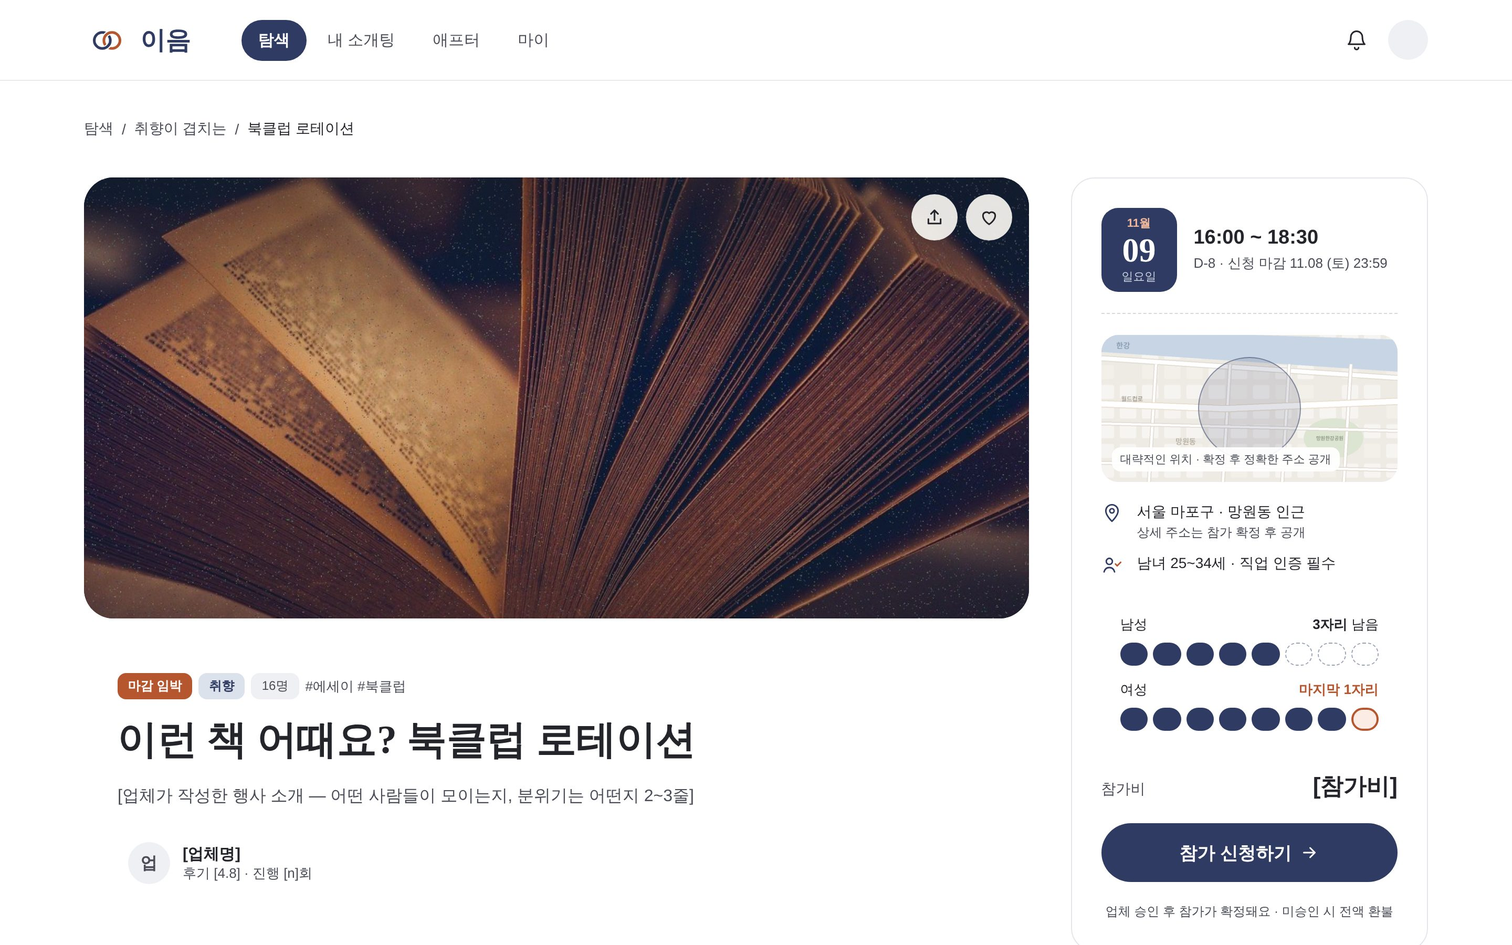
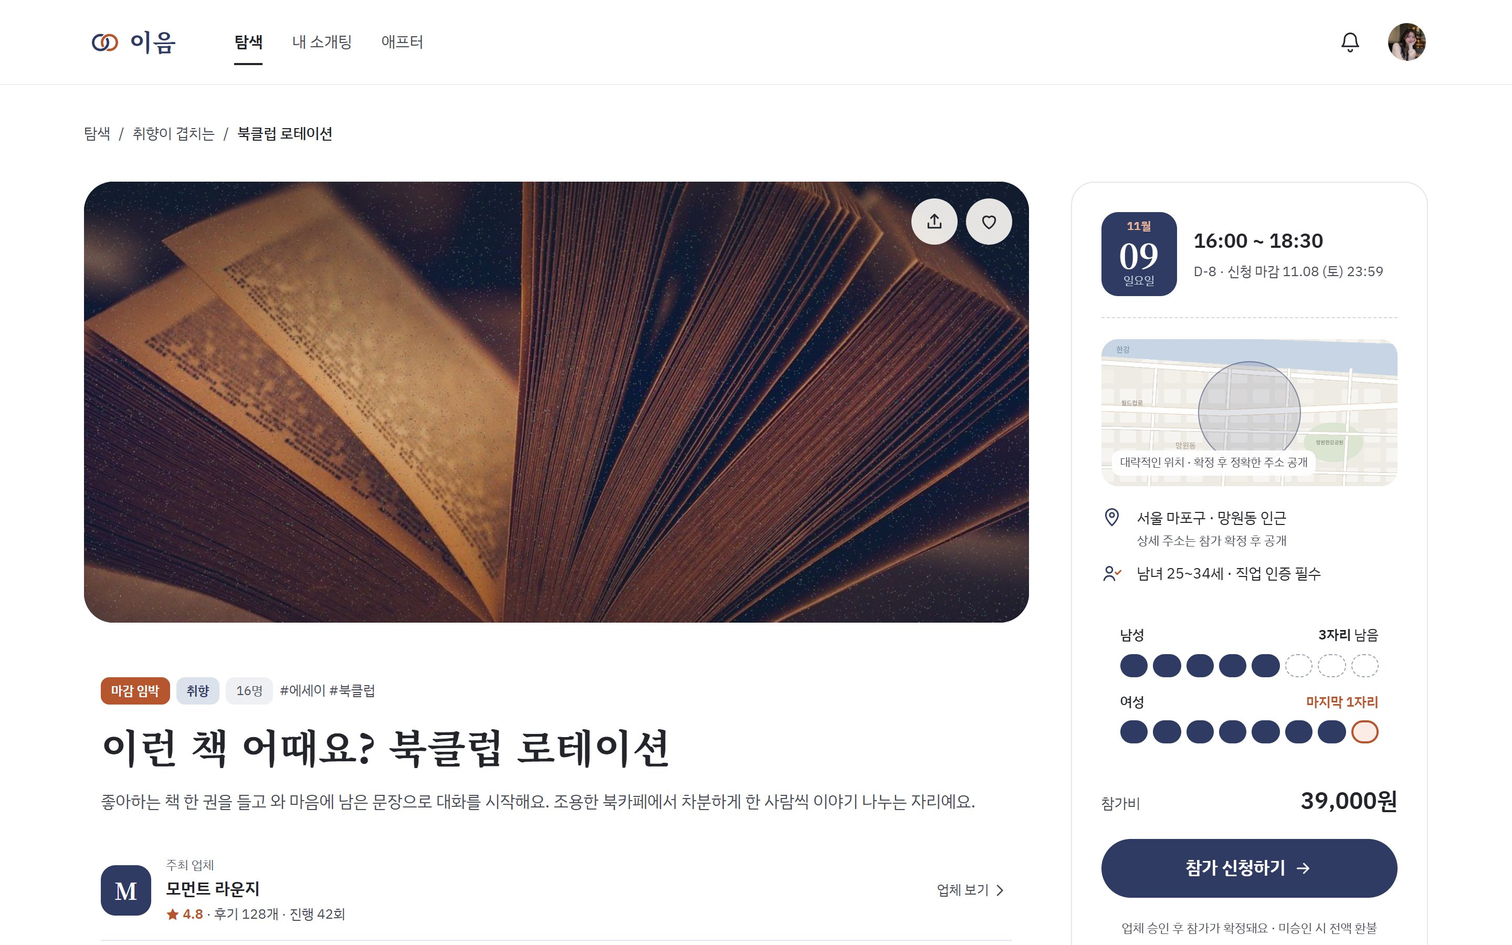
이음 기획서 갱신 · 캡처 교체 · 모바일 채팅 입력줄 수정
- 기획서: 바뀐 서비스 내용(마이 · 크레딧 열람 · 필터 · 라운드 자동 전환 등), 기간 · 도구 반영
- 주요 화면에 '웹으로 옮기며 새로 만든 화면' 8장 추가, 기존 모바일 12장 · PC 5장을 현재 화면으로 다시 캡처
- 페르소나 사진을 서비스의 내 프로필 사진으로 교체
- 모바일 채팅: 입력칸 최소 폭 때문에 실기기에서 화면이 넘치고 축소되던 문제 수정
- 모바일 애프터 제목에 AFTER 소제목 추가

diff --git a/projects/ieum/index.html b/projects/ieum/index.html
@@ -30,13 +30,14 @@
     <div>
       <span class="eyebrow">UX/UI Case Study · 오프라인 로테이션 소개팅</span>
       <h1 class="hero-title">한 번의 대화가<br><em>관계로 이어지도록</em></h1>
-      <p class="sub">인증된 사람들이 한자리에서 차례로 대화하고, 서로 고른 사람과만 이어지는 오프라인 로테이션 소개팅 웹 서비스. 참가자 화면을 기획부터 디자인까지 설계했습니다.</p>
+      <p class="sub">인증된 사람들이 한자리에서 차례로 대화하고, 서로 고른 사람과만 이어지는 오프라인 로테이션 소개팅 웹 서비스. 참가자 화면을 기획 · 디자인부터 실제로 동작하는 반응형 웹까지 만들었습니다.</p>
       <div class="cta-row"><a class="cta" href="../../ieum/" target="_blank" rel="noopener">서비스 구경하기 <span aria-hidden="true">↗</span></a></div>
       <dl class="meta">
-        <div><dt>역할</dt><dd>서비스 기획 · UX/UI 디자인 (1인)</dd></div>
+        <div><dt>역할</dt><dd>기획 · UX/UI 디자인 · 퍼블리싱 (1인)</dd></div>
         <div><dt>범위</dt><dd>참가자 웹 · 반응형(모바일 · PC)</dd></div>
-        <div><dt>산출물</dt><dd>와이어프레임 · 브랜드 · 디자인 60화면</dd></div>
-        <div><dt>기간 · 도구</dt><dd><span class="ph">[기간]</span> · <span class="ph">[사용 도구]</span></dd></div>
+        <div><dt>산출물</dt><dd>브랜드 · 디자인 60화면 · 반응형 웹</dd></div>
+        <div><dt>기간</dt><dd>2026.10 – 진행 중</dd></div>
+        <div><dt>도구</dt><dd>Claude · HTML · CSS · JS · AI 이미지 생성</dd></div>
       </dl>
     </div>
     <div class="phones">
@@ -82,10 +83,10 @@
 
   <div class="sol">
     <div><span class="k">신뢰 →</span><h3>인증된 사람만, 필요한 만큼만 공개</h3>
-      <p>가입 때 본인 인증과 직업 인증을 받고, 프로필은 관계가 가까워질수록 한 단계씩 열리도록 설계했습니다. 회사명은 끝까지 공개하지 않고, 같은 회사 사람과 같은 회차에 배정되지 않는 데에만 씁니다.</p>
+      <p>가입 때 본인 인증과 직업 인증을 받고, 프로필은 관계가 가까워질수록 한 단계씩 열리도록 설계했습니다. 회사명은 끝까지 공개하지 않고, 같은 회사 사람과 같은 회차에 배정되지 않는 데에만 씁니다. 마이 페이지에서는 내 카드가 다른 참가자에게 어떻게 보이는지, 아직 가려진 정보까지 그대로 미리 볼 수 있습니다.</p>
       <div class="disclose">
         <div><b>참가 확정 후</b><span>사진, 성+○○, 성별, 나이대, 한마디</span></div>
-        <div><b>크레딧 열람</b><span>지역(구까지), 직업군, 취미 · 열람하면 상대에게 알림</span></div>
+        <div><b>크레딧 열람</b><span>1크레딧으로 한 명의 지역(구까지), 직업군, 취미 · 열람하면 상대에게 알림 · 서로의 열람 기록 확인</span></div>
         <div><b>매칭 후</b><span>실명, 인앱 대화</span></div>
         <div><b>공개 안 함</b><span>회사명, 상세 주소, 연락처</span></div>
       </div>
@@ -96,7 +97,7 @@
   <div class="sol">
     <div><span class="k">기억 →</span><h3>대화하는 동안 남기는 로테이션 메모</h3>
       <p>행사 당일 화면에서 지금 몇 번째 대화인지 보여주고, 대화한 사람마다 짧은 메모와 '다시 보고 싶어요' 하트를 남길 수 있게 했습니다. 이 메모와 하트는 애프터 선택 화면에 그대로 따라와서, 사진과 번호만으로 사람을 떠올리지 않아도 됩니다.</p>
-      <ul><li>메모는 나만 볼 수 있음</li><li>메모 남긴 사람 · 하트 누른 사람으로 애프터 후보 필터링</li></ul>
+      <ul><li>메모는 나만 볼 수 있음</li><li>다음 상대는 진행자가 라운드를 넘기면 자동으로 공개 · 참가자는 대화와 메모에만 집중</li><li>순서가 꼬였을 때를 위한 '번호로 바꾸기' 예비 장치</li><li>메모 남긴 사람 · 하트 누른 사람으로 애프터 후보 필터링</li></ul>
     </div>
     <div class="phone"><img src="../../img/ieum/D-S17-Mobile.jpg" alt="로테이션 메모 화면"></div>
   </div>
@@ -104,7 +105,7 @@
   <div class="sol">
     <div><span class="k">부담 →</span><h3>서로 골랐을 때만 연결되는 애프터</h3>
       <p>행사가 끝나면 24시간 동안 더 알아가고 싶은 사람을 고릅니다. 서로 선택한 경우에만 매칭되고, 이어지지 않은 선택은 상대에게 알려지지 않습니다. 매칭되면 실명이 공개되고 인앱 대화로 바로 이어집니다.</p>
-      <ul><li>선택 인원은 참석 인원의 15% (20명 참석 → 3명)</li><li>마감 전까지 선택 변경 가능</li><li>이어지지 않으면 비슷한 다음 소개팅을 추천</li></ul>
+      <ul><li>선택 인원은 참석 인원의 15% (20명 참석 → 3명)</li><li>마감 전까지 선택 변경 가능</li><li>매칭 대화방에서 상대 프로필 · 신고 · 차단 · 나가기</li><li>이어지지 않으면 비슷한 다음 소개팅을 추천</li></ul>
     </div>
     <div class="phone"><img src="../../img/ieum/D-S10-Mobile.jpg" alt="애프터 선택 화면"></div>
   </div>
@@ -115,11 +116,11 @@
     <p class="lead">참가자가 서비스를 처음 만나는 순간부터 매칭 상대와 대화를 시작하기까지의 핵심 경로입니다.</p></div>
   <div class="phase"><span>찾기 · 신청</span><span>참가</span><span class="t">애프터</span></div>
   <div class="flow">
-    <div class="step"><div class="phone"><img src="../../img/ieum/D-S01-Mobile.jpg" alt=""></div><p class="lbl">탐색<span>테마 · 마감 임박 · 달력</span></p></div>
+    <div class="step"><div class="phone"><img src="../../img/ieum/D-S01-Mobile.jpg" alt=""></div><p class="lbl">탐색<span>테마 · 마감 임박 · 필터 · 달력</span></p></div>
     <div class="step"><div class="phone"><img src="../../img/ieum/D-S04-Mobile.jpg" alt=""></div><p class="lbl">상세 · 신청<span>3단계 신청 · 결제</span></p></div>
     <div class="step"><div class="phone"><img src="../../img/ieum/D-S06-Mobile.jpg" alt=""></div><p class="lbl">업체 확인<span>1시간 안 승인 · 미승인 시 전액 환불</span></p></div>
-    <div class="step"><div class="phone"><img src="../../img/ieum/D-S08-Mobile.jpg" alt=""></div><p class="lbl">참가 확정<span>참가자 명단 · 상세 열람</span></p></div>
-    <div class="step"><div class="phone"><img src="../../img/ieum/D-S16-Mobile.jpg" alt=""></div><p class="lbl">행사 당일<span>QR 체크인 · 로테이션 메모</span></p></div>
+    <div class="step"><div class="phone"><img src="../../img/ieum/D-S08-Mobile.jpg" alt=""></div><p class="lbl">참가 확정<span>참가자 명단 · 크레딧 열람</span></p></div>
+    <div class="step"><div class="phone"><img src="../../img/ieum/D-S16-Mobile.jpg" alt=""></div><p class="lbl">행사 당일<span>QR 체크인 · 라운드 자동 전환 · 메모</span></p></div>
     <div class="step after"><div class="phone"><img src="../../img/ieum/D-S11-Mobile.jpg" alt=""></div><p class="lbl">애프터 · 매칭<span>서로 선택 시 대화 시작</span></p></div>
   </div>
 </div></section>
@@ -134,7 +135,8 @@
       <tr><td>취소 · 환불</td><td>전날까지 전액 · 당일 <span class="num">50</span>% · 노쇼 환불 없음</td><td>업체 미승인 · 행사 취소는 전액 환불<span class="why">취소 시점을 화면마다 같은 표로 안내</span></td></tr>
       <tr><td>노쇼</td><td><span class="num">1</span>회 경고, <span class="num">2</span>회째 <span class="num">7</span>일 신청 제한</td><td>제한 중에도 둘러보기와 관심 저장은 가능<span class="why">벌보다 다시 돌아올 길을 함께 보여줌</span></td></tr>
       <tr><td>대기 신청</td><td>내 성별이 마감되면 무료 대기 · 자리가 나면 순서대로 알림</td><td>알림 후 <span class="num">1</span>시간 안에 결제하면 확정<span class="why">자리가 비어도 다음 사람이 바로 채움</span></td></tr>
-      <tr><td>상세 열람</td><td>지역 · 직업군 · 취미는 크레딧으로 열람</td><td>열람하면 상대에게 알림<span class="why">일방적인 정보 탐색을 막는 장치</span></td></tr>
+      <tr><td>상세 열람</td><td><span class="num">1</span>크레딧으로 한 명의 지역 · 직업군 · 취미 열람</td><td>열람하면 상대에게 알림 · 마이에서 서로의 열람 기록 확인<span class="why">일방적인 정보 탐색을 막는 장치</span></td></tr>
+      <tr><td>로테이션</td><td>다음 상대는 진행자가 라운드를 넘길 때 공개</td><td>참가자가 직접 지정하지 않음 · 번호로 바꾸기는 예비<span class="why">대화 사이에 휴대폰을 만지지 않게</span></td></tr>
       <tr><td>애프터</td><td>참석 인원의 <span class="num">15</span>%까지 선택 · 종료 후 <span class="num">24</span>시간</td><td>서로 선택한 경우에만 매칭 · 실명 공개<span class="why">거절의 부담 없이 마음을 표현</span></td></tr>
     </tbody>
   </table></div>
@@ -142,14 +144,14 @@
 
 <section class="block" id="ia"><div class="wrap">
   <div class="sec-head"><span class="sec-num">06 · 정보 구조</span><div><h2>네 개의 탭, 하나의 여정</h2></div>
-    <p class="lead">하단 탭(모바일)과 상단 메뉴(PC)를 같은 구조로 맞췄습니다. 애프터는 시간이 걸린 관계의 순간이라 별도 탭으로 꺼냈습니다.</p></div>
+    <p class="lead">하단 탭(모바일)과 상단 메뉴(PC)를 같은 구조로 맞췄습니다. 애프터는 시간이 걸린 관계의 순간이라 별도 탭으로 꺼냈고, PC에서 마이는 메뉴 대신 헤더의 프로필 사진으로 들어갑니다.</p></div>
   <div class="ia">
-    <div class="ia-col"><h4>탐색</h4><ul><li>마감 임박 소개팅</li><li>테마 <small>결혼관 · 파티 · 업계 · 취향</small></li><li>새로 열린 테마</li><li>리스트 / 달력 보기</li><li>소개팅 상세 → 참가 신청 · 대기 신청</li></ul></div>
+    <div class="ia-col"><h4>탐색</h4><ul><li>마감 임박 소개팅</li><li>테마 <small>결혼관 · 파티 · 업계 · 취향</small></li><li>새로 열린 테마</li><li>리스트 / 달력 보기 <small>같은 화면에서 전환</small></li><li>필터 <small>날짜 · 지역 · 인원 · 테마 · 적용 태그 · 초기화</small></li><li>소개팅 상세 → 참가 신청 · 대기 신청</li></ul></div>
     <div class="ia-col"><h4>내 소개팅</h4><ul><li>예정 <small>접수중 · 확정 · 대기 · 미승인</small></li><li>지난 소개팅</li><li>리스트 / 달력 보기</li><li>참가자 명단 · 상세 열람</li><li>행사 당일 · 로테이션 메모</li><li>참가 취소</li></ul></div>
-    <div class="ia-col t"><h4>애프터</h4><ul><li>진행 중인 선택</li><li>애프터 선택 · 선택 완료</li><li>매칭 결과 <small>성공 · 이어지지 않음</small></li><li>매칭 대화방</li></ul></div>
-    <div class="ia-col"><h4>마이</h4><ul><li>프로필 · 인증 상태</li><li>이용 현황 · 노쇼 기록</li><li>크레딧 · 결제 · 환불 내역</li><li>차단 · 신고 내역</li></ul></div>
+    <div class="ia-col t"><h4>애프터</h4><ul><li>진행 중인 선택</li><li>애프터 선택 · 선택 완료</li><li>매칭 결과 <small>성공 · 이어지지 않음</small></li><li>매칭 대화방 <small>접속 표시 · 고정 메모</small></li><li>매칭 상대 프로필 · 신고 · 차단</li></ul></div>
+    <div class="ia-col"><h4>마이</h4><ul><li>다른 참가자에게 보이는 모습</li><li>프로필 정보 · 본인 인증</li><li>크레딧 충전 · 참가 기록 · 노쇼</li><li>관심 소개팅</li><li>열람 기록 <small>나를 열람 · 내가 열람</small></li><li>설정 <small>알림 · 결제 · 차단 · 신고</small></li></ul></div>
   </div>
-  <div class="ia-foot"><span class="chip">공통 · 알림</span><span class="chip">공통 · 로그인 / 회원가입 4단계</span><span class="chip">알림창 · 비로그인 · 인증 확인 중 · 노쇼 제한</span></div>
+  <div class="ia-foot"><span class="chip">공통 · 알림 팝업</span><span class="chip">공통 · 크레딧 충전</span><span class="chip">공통 · 로그인 / 회원가입 4단계</span><span class="chip">알림창 · 비로그인 · 인증 확인 중 · 노쇼 제한</span></div>
 </div></section>
 
 <section class="block" id="states"><div class="wrap">
@@ -175,10 +177,11 @@
         <div class="sw"><i class="sw-terra"></i><div><b>테라코타</b><span>#B5562F · 애프터 · 마감</span></div></div>
         <div class="sw"><i class="sw-indigo-tint"></i><div><b>인디고 틴트</b><span>#EEF1F6</span></div></div>
         <div class="sw"><i class="sw-terra-tint"></i><div><b>테라코타 틴트</b><span>#FBEDE6</span></div></div>
+        <div class="sw"><i class="sw-green"></i><div><b>그린</b><span>#2B8A52 · 인증 · 접속 중</span></div></div>
         <div class="sw"><i class="sw-text"></i><div><b>텍스트</b><span>#24252B · #4A4D57</span></div></div>
         <div class="sw"><i class="sw-surface"></i><div><b>서피스</b><span>#F4F5F7 · #E3E6EA</span></div></div>
       </div>
-      <p class="rule"><b class="strong">색 규칙.</b> 탐색 · 신청 · 일반 액션은 인디고, 애프터 · 매칭 · 마감 임박처럼 시간이 걸린 관계의 순간에만 테라코타를 씁니다. 테라코타는 면이 아니라 점, 링, 버튼 하나처럼 작게 씁니다.</p>
+      <p class="rule"><b class="strong">색 규칙.</b> 탐색 · 신청 · 일반 액션은 인디고, 애프터 · 매칭 · 마감 임박처럼 시간이 걸린 관계의 순간에만 테라코타를 씁니다. 테라코타는 면이 아니라 점, 링, 버튼 하나처럼 작게 씁니다. 본인 · 직업 인증과 접속 중 표시는 초록으로 따로 구분합니다.</p>
     </div>
     <div class="card">
       <h3>타이포그래피</h3>
@@ -191,7 +194,7 @@
       <h3>컴포넌트</h3>
       <div class="comp"><span class="btn p">참가 신청하기</span><span class="btn a">대화 시작하기</span><span class="btn g">상세 보기</span></div>
       <div class="ticket"><div class="l"><b>시티팝 로테이션</b>오늘 19:00 · 체크인 19:15까지</div><div class="r">MY NO.<strong>7</strong></div></div>
-      <p class="rule">알약형 버튼, 티켓처럼 점선으로 나뉜 행사 카드, 완전한 원형의 프로필이 반복되는 기본 단위입니다.</p>
+      <p class="rule">알약형 버튼, 티켓처럼 점선으로 나뉜 행사 카드, 완전한 원형의 프로필이 반복되는 기본 단위입니다. 목록은 테두리 없이 구분선으로만 나누고, 카드는 화면마다 핵심 요약 하나에만 써서 상자가 겹쳐 보이지 않게 했습니다.</p>
     </div>
     <div class="card">
       <h3>이미지 톤</h3>
@@ -203,7 +206,7 @@
 
 <section class="block" id="screens"><div class="wrap">
   <div class="sec-head"><span class="sec-num">09 · 주요 화면</span><div><h2>모바일 · PC 반응형 60화면</h2></div>
-    <p class="lead">같은 구조를 유지하되, PC에서는 넓은 화면을 살려 정보를 나란히 보여줍니다.</p></div>
+    <p class="lead">같은 구조를 유지하되, PC에서는 넓은 화면을 살려 정보를 나란히 보여줍니다. 열람 기록처럼 모바일에서는 화면을 넘어가는 상세도 PC에서는 목록 옆에 바로 띄웁니다.</p></div>
   <div class="gal-m">
     <figure><div class="phone"><img src="../../img/ieum/D-S04-Mobile.jpg" alt=""></div><figcaption><b>소개팅 상세</b>남녀 자리 현황을 좌석 점으로 시각화</figcaption></figure>
     <figure><div class="phone"><img src="../../img/ieum/D-S07-Mobile.jpg" alt=""></div><figcaption><b>내 소개팅</b>오늘의 행사를 티켓으로, 상태는 배지로</figcaption></figure>
@@ -216,6 +219,19 @@
     <figure><div class="browser"><div class="bar"><i></i><i></i><i></i></div><img src="../../img/ieum/D-S10-PC.jpg" alt=""></div><figcaption><b>애프터 선택 · PC</b>메모와 함께 후보를 카드로 비교</figcaption></figure>
     <figure><div class="browser"><div class="bar"><i></i><i></i><i></i></div><img src="../../img/ieum/D-S11-PC.jpg" alt=""></div><figcaption><b>매칭 결과 · PC</b>함께한 소개팅과 그날의 메모를 다시 보여줌</figcaption></figure>
   </div>
+  <div class="gal-sub"><h3>웹으로 옮기며 새로 만든 화면</h3><p>시안에 없던 흐름을 실제로 동작하는 화면으로 채웠습니다.</p></div>
+  <div class="gal-m">
+    <figure><div class="phone"><img src="../../img/ieum/W-Me-Mobile.jpg" alt="마이 화면"></div><figcaption><b>마이</b>내 카드가 어떻게 보이는지, 가려진 정보까지 미리 보기</figcaption></figure>
+    <figure><div class="phone"><img src="../../img/ieum/W-Filter-Mobile.jpg" alt="필터 화면"></div><figcaption><b>필터</b>날짜 · 지역 · 인원 · 테마를 고르면 목록 위 태그로</figcaption></figure>
+    <figure><div class="phone"><img src="../../img/ieum/W-Memo-Mobile.jpg" alt="라운드 자동 전환 화면"></div><figcaption><b>라운드 자동 전환</b>진행자가 넘기면 다음 상대가 공개되고 메모는 저장</figcaption></figure>
+    <figure><div class="phone"><img src="../../img/ieum/W-Views-Mobile.jpg" alt="열람 기록 화면"></div><figcaption><b>열람 기록</b>나를 열람한 사람과 내가 열람한 사람을 탭으로</figcaption></figure>
+  </div>
+  <div class="gal-p">
+    <figure><div class="browser"><div class="bar"><i></i><i></i><i></i></div><img src="../../img/ieum/W-Me-PC.jpg" alt="마이 · PC 화면"></div><figcaption><b>마이 · PC</b>카드는 핵심 요약 두 개, 나머지는 선으로 나눈 목록</figcaption></figure>
+    <figure><div class="browser"><div class="bar"><i></i><i></i><i></i></div><img src="../../img/ieum/W-Views-PC.jpg" alt="열람 기록 · PC 화면"></div><figcaption><b>열람 기록 · PC</b>목록 옆에 상세를 바로 띄우고, 그 자리에서 열람</figcaption></figure>
+    <figure><div class="browser"><div class="bar"><i></i><i></i><i></i></div><img src="../../img/ieum/W-Participants-PC.jpg" alt="크레딧 열람 · PC 화면"></div><figcaption><b>크레딧 열람 · PC</b>열람 전 사용 크레딧과 상대에게 가는 알림을 먼저 안내</figcaption></figure>
+    <figure><div class="browser"><div class="bar"><i></i><i></i><i></i></div><img src="../../img/ieum/W-Chat-PC.jpg" alt="매칭 대화 · PC 화면"></div><figcaption><b>매칭 대화 · PC</b>진행 중인 선택 배너, 접속 표시, 고정 메모</figcaption></figure>
+  </div>
 </div></section>
 
 <section class="block" id="retro"><div class="wrap">
@@ -224,12 +240,13 @@
     <div class="card"><h3>잘된 점</h3><ul>
       <li>정책을 먼저 정해, 60개 화면에서 취소 · 노쇼 · 대기 안내가 같은 말로 반복되도록 맞춤</li>
       <li>메모 → 애프터 선택 → 매칭 대화로 이어지는 핵심 경험을 하나의 데이터 흐름으로 설계</li>
-      <li>색 규칙(인디고 / 테라코타)으로 화면이 늘어나도 의미가 흐트러지지 않게 함</li>
+      <li>색 규칙(인디고 / 테라코타 / 인증 초록)으로 화면이 늘어나도 의미가 흐트러지지 않게 함</li>
+      <li>시안을 실제로 동작하는 웹으로 옮기며 비어 있던 흐름(다음 상대 공개, 필터, 크레딧 충전, 열람 기록)을 채움</li>
     </ul></div>
     <div class="card"><h3>다음 단계</h3><ul>
       <li>실제 참가 경험이 있는 사용자 인터뷰와 사용성 테스트로 가설 검증</li>
       <li>행사 중 메모 시점 검증 · 자리 이동 시간에 쓰도록 안내하는 방식 실험</li>
-      <li>성비 불균형 대응과 업체(주최자) 관리 화면 설계</li>
+      <li>성비 불균형 대응과 업체(주최자) 관리 화면 · 라운드 진행 화면 설계</li>
       <li>결혼중개업법 등 관련 법규 검토</li>
     </ul></div>
   </div>

diff --git a/css/ieum.css b/css/ieum.css
@@ -36,6 +36,7 @@
 .ieum .meta{margin-top:36px;display:grid;grid-template-columns:repeat(2,minmax(0,1fr));gap:18px 28px;padding-top:24px;border-top:1px solid var(--line)}
 .ieum .meta dt{font-size:12px;color:var(--faint);letter-spacing:.06em}
 .ieum .meta dd{margin:2px 0 0;font-size:15px;font-weight:500}
+.ieum .meta>div:last-child:nth-child(odd){grid-column:1/-1} /* 항목이 홀수면 마지막 줄은 한 칸 전체 */
 .ieum .ph{color:var(--terra-ink);background:var(--terra-tint);border-radius:6px;padding:0 6px;font-weight:500}
 .ieum .phones{position:relative;display:flex;justify-content:center;align-items:flex-end;gap:14px}
 .ieum .phone{flex:0 1 220px;min-width:0;border-radius:30px;padding:7px;background:var(--frame);box-shadow:var(--shadow),0 0 0 1px var(--line)}
@@ -160,6 +161,9 @@
 .ieum .browser .bar i{width:8px;height:8px;border-radius:50%;background:var(--line)}
 .ieum .browser img{display:block;width:100%;aspect-ratio:1440/900;object-fit:cover;object-position:top}
 @media (max-width:900px){.ieum .gal-m{grid-template-columns:repeat(2,minmax(0,1fr))}.ieum .gal-p{grid-template-columns:1fr}}
+.ieum .gal-sub{margin:72px 0 24px;padding-top:40px;border-top:1px solid var(--line)}
+.ieum .gal-sub h3{font-size:20px}
+.ieum .gal-sub p{margin:6px 0 0;font-size:15px;color:var(--muted)}
 
 /* retro */
 .ieum .retro{display:grid;grid-template-columns:repeat(2,minmax(0,1fr));gap:20px}
@@ -182,6 +186,7 @@
 .ieum .sw-terra{background:#B5562F}
 .ieum .sw-indigo-tint{background:#EEF1F6}
 .ieum .sw-terra-tint{background:#FBEDE6}
+.ieum .sw-green{background:#2B8A52}
 .ieum .sw-text{background:#24252B}
 .ieum .sw-surface{background:#F4F5F7}
 .ieum .cta-row{margin-top:28px;display:flex;flex-wrap:wrap;gap:12px}

diff --git a/ieum/after.html b/ieum/after.html
@@ -23,7 +23,7 @@
 <!-- S19-Mobile · S19 애프터 홈 · 모바일 -->
   <div class="p-cb p-s19-m-root p-frame p-frame--tab l-only-mobile">
     <header class="p-s19-m-1">
-    <h1 class="p-s19-m-2">애프터</h1>
+    <div class="p-s07-m-2"><span class="p-s07-m-3">AFTER</span><h1 class="p-s07-m-4">애프터</h1></div>
     <a href="notifications.html" aria-label="알림" class="p-s19-m-3"><svg width="24" height="24" viewBox="0 0 24 24" fill="none" stroke="#24252B" stroke-width="1.6" stroke-linecap="round" stroke-linejoin="round" aria-hidden="true"><path d="M6 9a6 6 0 0 1 12 0c0 6 2.5 7.5 2.5 7.5h-17S6 15 6 9z"></path><path d="M10 20a2 2 0 0 0 4 0"></path></svg></a>
     </header>
 

diff --git a/ieum/style/pages.css b/ieum/style/pages.css
@@ -22972,3 +22972,9 @@
 .p-mm-sheet__input:focus { outline: none; border-color: var(--color-primary); box-shadow: 0 0 0 3px var(--color-primary-tint); }
 .p-mm-sheet__error { margin: -4px 0 0; font-size: 13px; color: var(--color-accent-ink); }
 .p-mm-sheet .c-btn-pair { margin-top: 6px; }
+
+/* 채팅 입력칸 — input의 기본 최소 폭(약 20자)이 실기기 글꼴에서 화면보다 넓어져
+   입력줄이 넘치고 페이지 전체가 축소되던 문제. 줄어들 수 있게 최소 폭을 없앤다 */
+.p-s15-m-25,
+.p-s15-pc-45 { min-width: 0; width: 0; }
+.p-s15-m-root { width: 100%; max-width: 100vw; overflow-x: hidden; }
